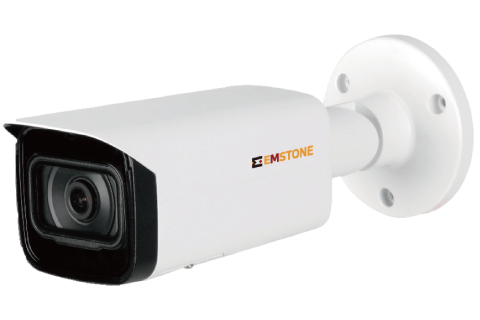
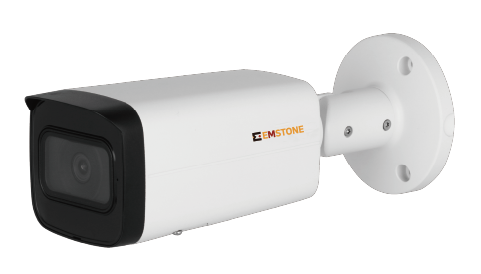
d시리즈3종update-20231019

diff --git a/content/ko/products/em-iqv(ir36d)/index.md b/content/ko/products/em-iqv(ir36d)/index.md
@@ -19,7 +19,7 @@ image:
 <div class="row justify-content-center align-items-center">
 <div class="col-sm-6">
 
-{{< figure src="em-iqv(ir36d)-case.png" caption="EM-IQV(IR36D)" >}}
+{{< figure src="em-iqv(ir36d)-case2.png" caption="EM-IQV(IR36D)" >}}
 
 </div>
 </div>
@@ -42,7 +42,7 @@ image:
 
 ## 외관도
 
-{{< figure src="em-iqv(ir36d)-drawing.png" >}}
+{{< figure src="em-iqv(ir36d)-drawing2.png" >}}
 
 </div>
 </div>
@@ -152,7 +152,14 @@ image:
 </tr>
 <tr>
 <th>IVS</th>
-<td>Tripwire, Intusion</td>
+<td>Intrusion, tripwire(the two functions support the classification and accurate detection of vehicle and human)</td>
+</tr>
+<th rowspan="2">Audio</th>
+<th>Built-in MIC</th>
+<td>Yes</td>
+<tr>
+<th>Audio Compression</th>
+<td>G.711a; G.711Mu; PCM; G.726</td>
 </tr>
 <th rowspan="5">Network</th>
 <th>Interface</th>
@@ -192,11 +199,11 @@ image:
 </tr>
 <th rowspan="2">Structure</th>
 <th>Dimensions</th>
-<td>244.1mm x Φ90.4mm (9.61" x Φ3.26")</td>
+<td>238.5 mm × 90.7 mm × 90.7 mm (9.39" × 3.57" × 3.57")</td>
 </tr>
 <tr>
 <th>Net Weigt</th>
-<td>0.91 kg (2.0 lb)</td>
+<td>0.72 kg (1.59 lb)</td>
 </tr>
 </tbody>
 </table>
@@ -206,10 +213,10 @@ image:
 
 종류 | 파일
 ---- | ----
-카탈로그 | [EM-IQV(IR36D)_CATALOG_KO_20230404.pdf](https://www.emstone.com/data/sales/ko/EM-IQV(IR36D)_CATALOG_KO_20230404.pdf)
-외관도 | [EM-IQV(IR36D)_외관도_20220127.png](https://www.emstone.com/data/sales/ko/EM-IQV(IR36D)_외관도_20220127.png)
+카탈로그 | [EM-IQV(IR36D)_CATALOG_KO_20231019.pdf](https://www.emstone.com/data/sales/ko/EM-IQV(IR36D)_CATALOG_KO_20231019.pdf)
+외관도 | [EM-IQV(IR36D)_외관도_20231019.png](https://www.emstone.com/data/sales/ko/EM-IQV(IR36D)_외관도_20231019.png)
 사양서 | [EM-IQV(IR36D)_사양서_20230404.xlsx](https://www.emstone.com/data/sales/ko/EM-IQV(IR36D)_사양서_20230404.xlsx)
-시방서 | [EM-IQV(IR36D)_시방서_20220127.hwp](https://www.emstone.com/data/sales/ko/EM-IQV(IR36D)_시방서_20220127.hwp)
+시방서 | [EM-IQV(IR36D)_사양서_20231019.xlsx](https://www.emstone.com/data/sales/ko/EM-IQV(IR36D)_사양서_20231019.xlsx)
 출하검사 결과 성적서 | [EM-IQV(IR36D)_출하검사성적서_20220127.xlsx](https://www.emstone.com/data/sales/ko/EM-IQV(IR36D)_출하검사성적서_20220127.xlsx)
 인증서 | [EM-IQV(IR36D)_방송통신기자재등의적합등록필증_20220127.pdf](https://www.emstone.com/data/sales/ko/EM-IQV(IR36D)_방송통신기자재등의적합등록필증_20220127.pdf)<br>[EM-IQV(IR36D)_방송통신기자재등(전자파적합성)시험성적서_20220127.pdf](https://www.emstone.com/data/sales/ko/EM-IQV(IR36D)_방송통신기자재등(전자파적합성)시험성적서_20220127.pdf)<br>[EM-IQV(IR36D)_방송통신기자재등(유선영상정보처리기기)시험성적서_20220127.pdf](https://www.emstone.com/data/sales/ko/EM-IQV(IR36D)_방송통신기자재등(유선영상정보처리기기)시험성적서_20220127.pdf)
 소프트웨어 | [EMSTONE_D_Config_tool.exe](https://www.emstone.com/data/sales/ko/EMSTONE_D_Config_tool.exe)

diff --git a/content/ko/products/em-iqd(ir28d)/index.md b/content/ko/products/em-iqd(ir28d)/index.md
@@ -152,7 +152,14 @@ image:
 </tr>
 <tr>
 <th>IVS</th>
-<td>Tripwire, Intusion</td>
+<td>Intrusion, tripwire(the two functions support the classification and accurate detection of vehicle and human)</td>
+</tr>
+<th rowspan="2">Audio</th>
+<th>Built-in MIC</th>
+<td>Yes</td>
+<tr>
+<th>Audio Compression</th>
+<td>G.711a; G.711Mu; PCM; G.726</td>
 </tr>
 <th rowspan="5">Network</th>
 <th>Interface</th>
@@ -206,9 +213,9 @@ image:
 
 종류 | 파일
 ---- | ----
-카탈로그 | [EM-IQD(IR28D)_CATALOG_KO_20230110.pdf](https://www.emstone.com/data/sales/ko/EM-IQD(IR28D)_CATALOG_KO_20230110.pdf)
+카탈로그 | [EM-IQD(IR28D)_CATALOG_KO_20231019.pdf](https://www.emstone.com/data/sales/ko/EM-IQD(IR28D)_CATALOG_KO_20231019.pdf)
 외관도 | [EM-IQD(IR28D)-외관도_20220127.png](https://www.emstone.com/data/sales/ko/EM-IQD(IR28D)-외관도_20220127.png)<br>[EM-IQD(IR28D)-외관도_20220801.dwg](https://www.emstone.com/data/sales/ko/EM-IQD(IR28D)-외관도_20220801.dwg)
-사양서 | [EM-IQD(IR28D)_사양서_20220628.xlsx](https://www.emstone.com/data/sales/ko/EM-IQD(IR28D)_사양서_20220628.xlsx)
+사양서 | [EM-IQD(IR28D)_사양서_20231019.xlsx](https://www.emstone.com/data/sales/ko/EM-IQD(IR28D)_사양서_20231019.xlsx)
 시방서 | [EM-IQD(IR28D)_시방서_20220628.hwp](https://www.emstone.com/data/sales/ko/EM-IQD(IR28D)_시방서_20220628.hwp)
 출하검사 결과 성적서 | [EM-IQD(IR28D)_출하검사성적서_20220127.xlsx](https://www.emstone.com/data/sales/ko/EM-IQD(IR28D)_출하검사성적서_20220127.xlsx)
 인증서 | [EM-IQD(IR28D)_방송통신기자재등의적합등록필증_20220127.pdf](https://www.emstone.com/data/sales/ko/EM-IQD(IR28D)_방송통신기자재등의적합등록필증_20220127.pdf)<br>[EM-IQD(IR28D)_방송통신기자재등(전자파적합성)시험성적서_20220127.pdf](https://www.emstone.com/data/sales/ko/EM-IQD(IR28D)_방송통신기자재등(전자파적합성)시험성적서_20220127.pdf)<br>[EM-IQD(IR28D)_방송통신기자재등(유선영상정보처리기기)시험성적서_20220127.pdf](https://www.emstone.com/data/sales/ko/EM-IQD(IR28D)_방송통신기자재등(유선영상정보처리기기)시험성적서_20220127.pdf)

diff --git a/content/ko/products/em-iuv(ir2713zd)/index.md b/content/ko/products/em-iuv(ir2713zd)/index.md
@@ -154,6 +154,13 @@ image:
 <th>IVS</th>
 <td>Tripwire, Intusion(support the classification and accurate detection of vehicle and human)</td>
 </tr>
+<th rowspan="2">Audio</th>
+<th>Built-in MIC</th>
+<td>Yes</td>
+<tr>
+<th>Audio Compression</th>
+<td>G.711a; G.711Mu; PCM; G.726; G.723</td>
+</tr>
 <th rowspan="5">Network</th>
 <th>Interface</th>
 <td>RJ-45 (10/100 Base-T)</td>
@@ -206,9 +213,9 @@ image:
 
 종류 | 파일
 ---- | ----
-카탈로그 | [EM-IUV(IR2713ZD)_CATALOG_KO_20230110.pdf](https://www.emstone.com/data/sales/ko/EM-IUV(IR2713ZD)_CATALOG_KO_20230110.pdf)
+카탈로그 | [EM-IUV(IR2713ZD)_CATALOG_KO_20231019.pdf](https://www.emstone.com/data/sales/ko/EM-IUV(IR2713ZD)_CATALOG_KO_20231019.pdf)
 외관도 | [EM-IUV(IR2713ZD)_외관도_20220223.png](https://www.emstone.com/data/sales/ko/EM-IUV(IR2713ZD)_외관도_20220223.png)<br>[EM-IUV(IR2713ZD)_외관도_20220801.dwg](https://www.emstone.com/data/sales/ko/EM-IUV(IR2713ZD)_외관도_20220801.dwg)
-사양서 | [EM-IUV(IR2713ZD)_사양서_20220223.xlsx](https://www.emstone.com/data/sales/ko/EM-IUV(IR2713ZD)_사양서_20220223.xlsx)
+사양서 | [EM-IUV(IR2713ZD)_사양서_20231019.xlsx](https://www.emstone.com/data/sales/ko/EM-IUV(IR2713ZD)_사양서_20231019.xlsx)
 시방서 | [EM-IUV(IR2713ZD)_시방서_20220628.hwp](https://www.emstone.com/data/sales/ko/EM-IUV(IR2713ZD)_시방서_20220628.hwp)
 출하검사 결과 성적서 | [EM-IUV(IR2713ZD)_출하검사성적서_20220223.xlsx](https://www.emstone.com/data/sales/ko/EM-IUV(IR2713ZD)_출하검사성적서_20220223.xlsx)
 인증서 | [EM-IUV(IR2713ZD)_방송통신기자재등의적합등록필증_20220223.pdf](https://www.emstone.com/data/sales/ko/EM-IUV(IR2713ZD)_방송통신기자재등의적합등록필증_20220223.pdf)
